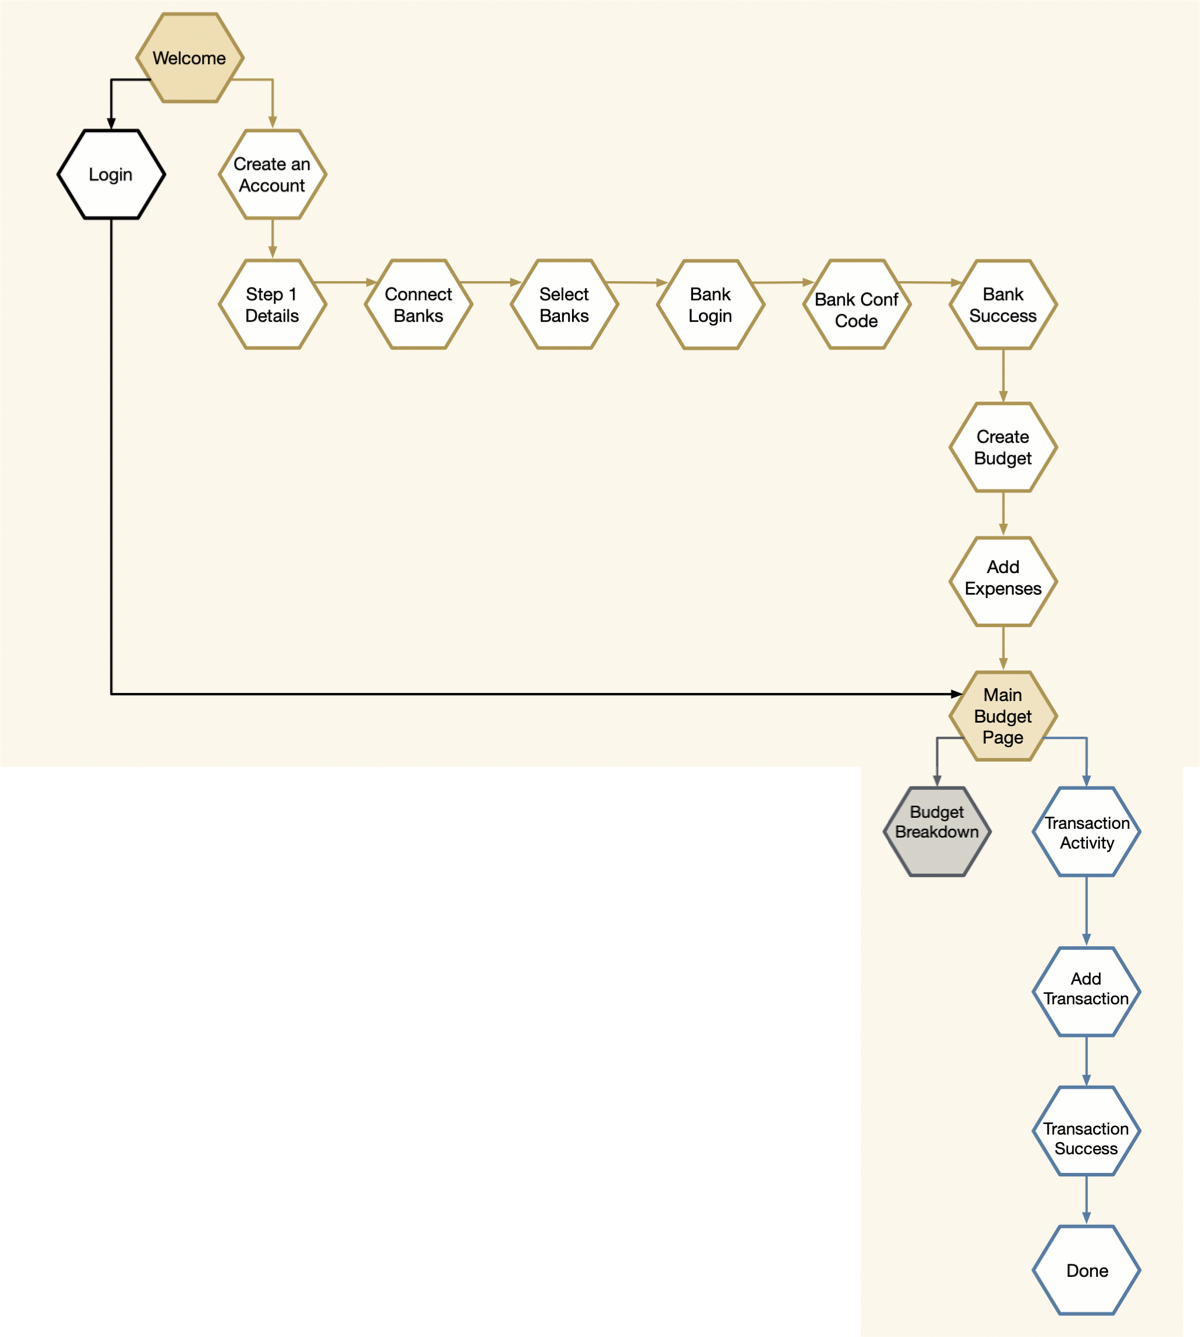
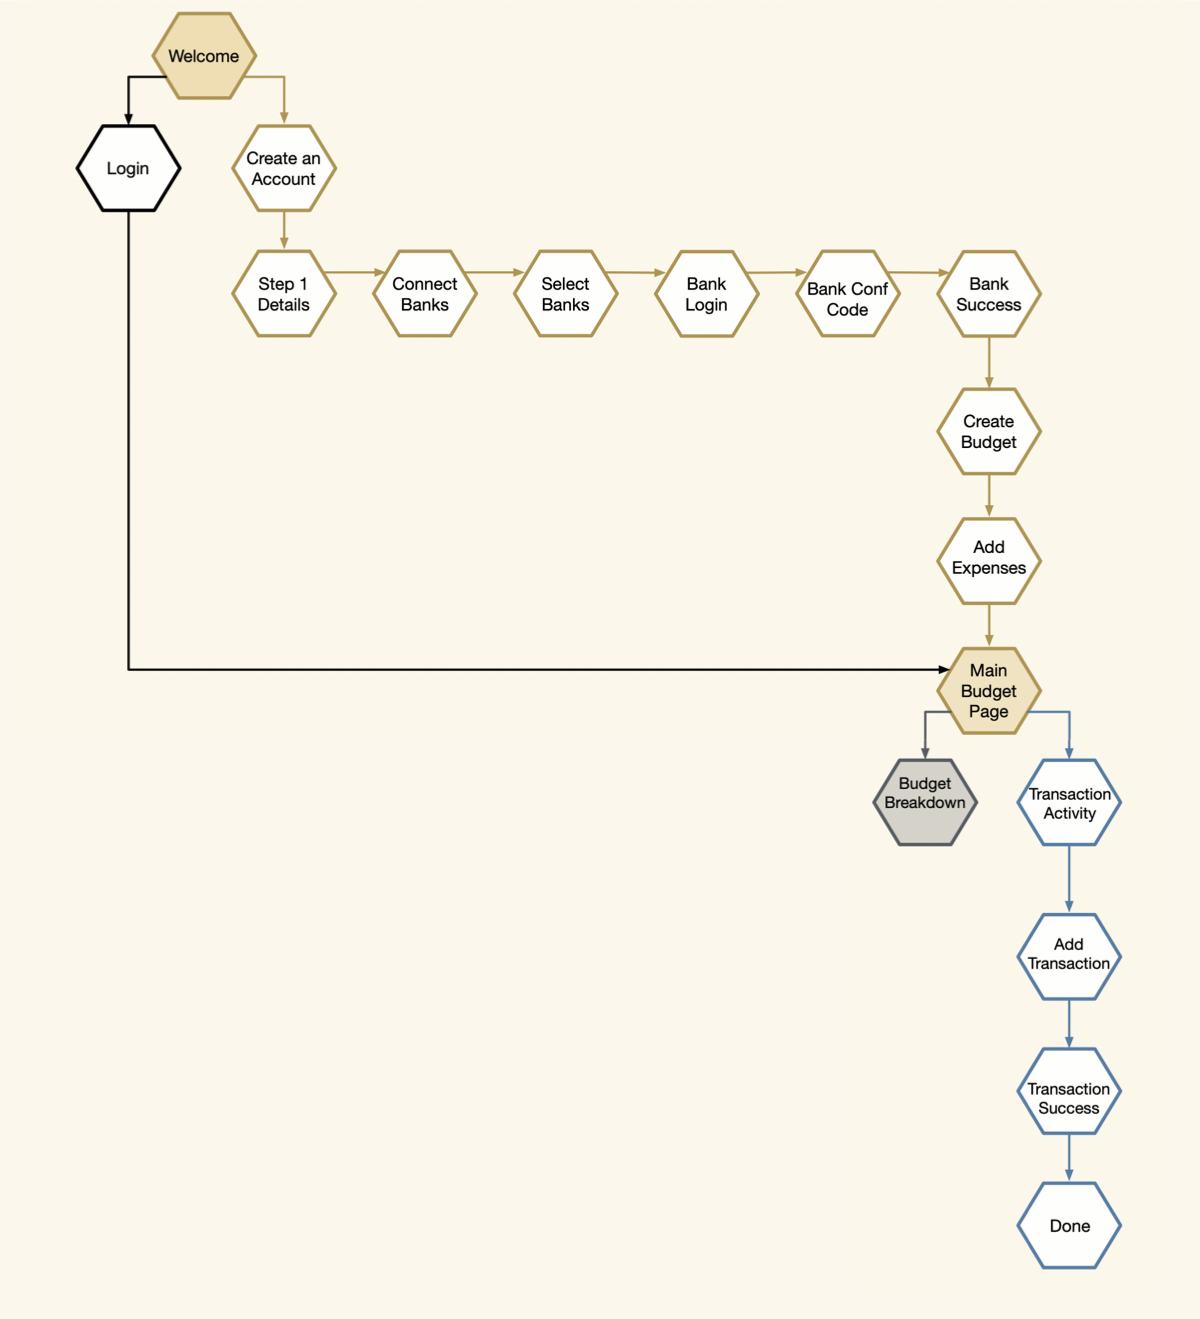
buzz stuff

Changed region(s): [[0.0308, 0.0, 0.9558, 0.9947]]

diff --git a/buzz.html b/buzz.html
@@ -186,7 +186,7 @@
           </p>
             <picture><!-- User Flow photo -->
               <source srcset="img/buzzimages600-1200/buzzuserflow600.png" media="(max-width:767px)">
-              <img src="img/buzzimages600-1200/buzzlogo1200.png" alt="desktop screen">
+              <img src="img/buzzimages600-1200/buzzuserflow1200.png" alt="desktop screen">
             </picture>
         </div><!-- End of User flow <section-->
 
